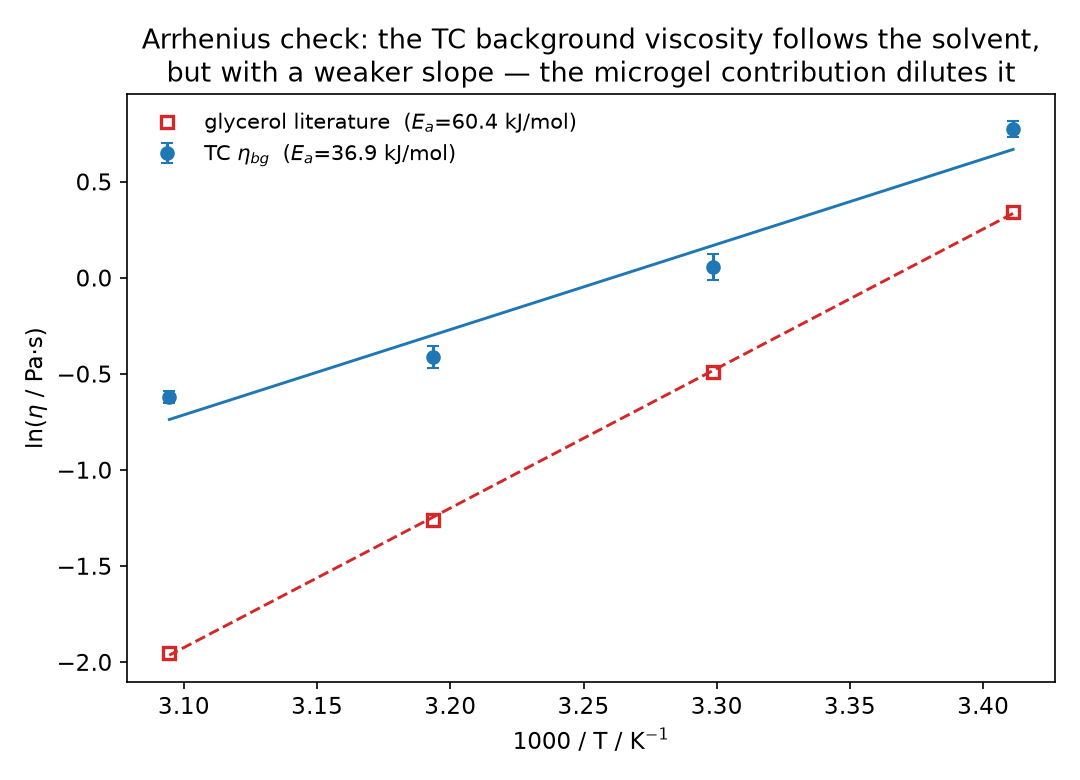
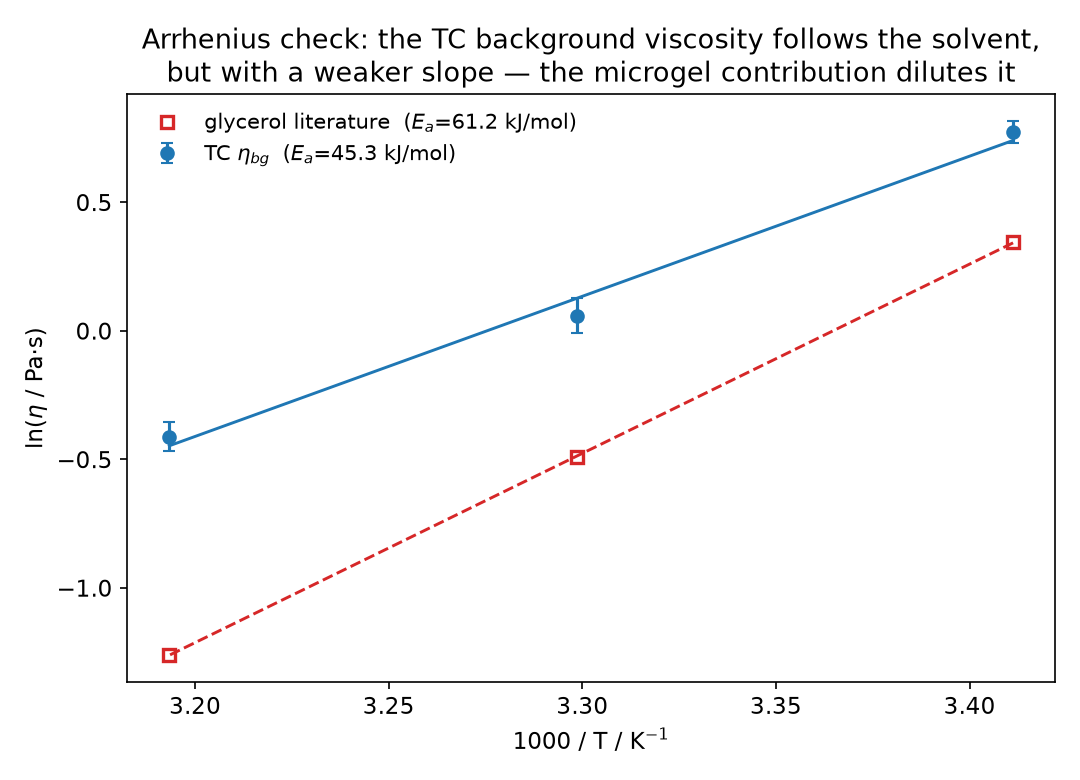
Docs: address review — drop 50C from glycerin walkthrough (issue #27)
- Remove the 50 C flow curve from the analysis: table, temperature
  series, TC parameter trends, and Arrhenius plot now use 20/30/40 C
- Corrected numbers: eta_bg Ea=45.3 kJ/mol (R2=0.990) vs glycerol
  61.2 kJ/mol (R2=1.000); eta_bg/eta_gly 1.54 -> 2.33 (20 -> 40 C)
- Updated mermaid diagram + SVG fallback; landing-page blurb fixed

diff --git a/docs/walkthrough-carbopol-glycerin.md b/docs/walkthrough-carbopol-glycerin.md
@@ -1,15 +1,15 @@
 # 🍯🌡 Walkthrough: the viscous background, measured at four temperatures — HB vs TC on Carbopol in glycerin
 
 *A single flow curve can tell you a viscous background exists. A temperature series lets you
-prove it: fit the TC model at 20, 30, 40 and 50 °C, extract the background viscosity
+prove it: fit the TC model at 20, 30 and 40 °C, extract the background viscosity
 η_bg(T), and check whether it follows the solvent's Arrhenius law. It does — with a twist
 that reveals the microgel's own contribution.*
 
 ## 🧪 The dataset
 
 `cp05_gly_newsample.json` (attached to [issue #27](https://github.com/rheopy/rheofit/issues/27),
-archived here as `walkthrough/cp05_gly_newsample.json`) holds **four equilibrium flow
-curves of Carbopol in glycerin at 20, 30, 40 and 50 °C** — 51 points each, 0.001 to
+archived here as `walkthrough/cp05_gly_newsample.json`) holds **three equilibrium flow
+curves of Carbopol in glycerin at 20, 30 and 40 °C** — 51 points each, 0.001 to
 100 s⁻¹, measured on a Peltier plate with 200 s thermal soaks between steps.
 
 ```python
@@ -17,13 +17,13 @@ import rheofit
 
 rheofit.print_steps("walkthrough/cp05_gly_newsample.json")
 dfs = {T: rheofit.load_step("walkthrough/cp05_gly_newsample.json", i)
-       for i, T in enumerate([50, 40, 30, 20])}
+       for i, T in enumerate([40, 30, 20])}
 ```
 
 ````{only} builder_html
 ```mermaid
 flowchart TD
-    A["cp05_gly_newsample.json<br/>Carbopol in glycerin<br/>flow curves at 20 / 30 / 40 / 50 °C"]
+    A["cp05_gly_newsample.json<br/>Carbopol in glycerin<br/>flow curves at 20 / 30 / 40 °C"]
     A --> B["Fit HB and TC<br/>at each temperature<br/>(thorough, seed 0)"]
     B --> C["Head-to-head:<br/>RedChi², parameters"]
     B --> D["Track TC parameters<br/>vs T"]
@@ -47,7 +47,6 @@ fits = {T: {"hb": rheofit.fit(df, "herschel_bulkley", effort="thorough", seed=0)
 
 | T (°C) | HB RedChi² | TC RedChi² | TC σ_y (Pa) | TC γ̇_c (s⁻¹) | TC η_bg (Pa·s) |
 |--------|-----------|-----------|-------------|---------------|----------------|
-| 50 | 1.45×10⁻⁴ | **5.26×10⁻⁵** | 5.368 ± 0.016 | 0.03464 ± 0.00034 | 0.538 ± 0.017 |
 | 40 | 4.20×10⁻⁴ | **1.22×10⁻⁴** | 5.358 ± 0.027 | 0.01564 ± 0.00025 | 0.663 ± 0.037 |
 | 30 | 5.85×10⁻⁴ | **2.05×10⁻⁴** | 6.314 ± 0.046 | 0.00956 ± 0.00021 | 1.060 ± 0.072 |
 | 20 | 6.12×10⁻⁴ | **1.42×10⁻⁴** | 7.494 ± 0.052 | 0.00564 ± 0.00011 | 2.169 ± 0.093 |
@@ -58,16 +57,16 @@ The HB fits are respectable — n ≈ 0.52 at all temperatures, the classic Carb
 shear-thinning signature, independent of T — but TC's explicit background term earns its
 keep here.
 
-![Flow curves at 20–50 °C with TC fits](walkthrough/fig14_temp_series_tc.png)
+![Flow curves at 20–40 °C with TC fits](walkthrough/fig14_temp_series_tc.png)
 
 ## 📈 Every TC parameter trends the physical way
 
 ![TC parameters vs temperature](walkthrough/fig16_tc_params_vs_T.png)
 
-- **σ_y grows on cooling** (5.37 → 7.49 Pa): the microgel network strengthens.
-- **γ̇_c falls on cooling** (0.035 → 0.0056 s⁻¹): the plastic √γ̇ term takes over at
+- **σ_y grows on cooling** (5.36 → 7.49 Pa): the microgel network strengthens.
+- **γ̇_c falls on cooling** (0.0156 → 0.0056 s⁻¹): the plastic √γ̇ term takes over at
   progressively lower shear rates as the background thickens.
-- **η_bg thickens on cooling** (0.54 → 2.17 Pa·s): the background viscosity itself is
+- **η_bg thickens on cooling** (0.66 → 2.17 Pa·s): the background viscosity itself is
   strongly temperature-dependent — which is exactly what you expect if it is the solvent.
 
 ## 🌡 The Arrhenius test
@@ -77,22 +76,22 @@ it should follow the solvent's temperature law. Glycerol is famously Arrhenius-l
 
 $$\ln \eta = \ln A + \frac{E_a}{R\,T}$$
 
-Public glycerol data (Segur & Oberstar 1951: 1.412, 0.612, 0.284, 0.142 Pa·s at
-20/30/40/50 °C) give a textbook straight line with **E_a = 60.4 kJ/mol** (R² = 0.9998).
-The TC background viscosities fall on a clean line too — with **E_a = 36.9 kJ/mol**
-(R² = 0.957).
+Public glycerol data (Segur & Oberstar 1951: 1.412, 0.612, 0.284 Pa·s at
+20/30/40 °C) give a textbook straight line with **E_a = 61.2 kJ/mol** (R² = 1.0000).
+The TC background viscosities fall on a clean line too — with **E_a = 45.3 kJ/mol**
+(R² = 0.9900).
 
 ![Arrhenius plot: TC background viscosity vs literature glycerol viscosity](walkthrough/fig15_arrhenius_bg.png)
 
 Two things to read off this plot:
 
 1. **η_bg tracks the solvent, always above it.** The ratio η_bg/η_glycerol runs
-   1.54 (20 °C) → 1.73 → 2.33 → 3.79 (50 °C): the background is glycerin *plus* the
+   1.54 (20 °C) → 1.73 → 2.33 (40 °C): the background is glycerin *plus* the
    Carbopol microgel's own high-shear contribution.
-2. **The slope is weaker (36.9 vs 60.4 kJ/mol) — and that makes sense.** The microgel
+2. **The slope is weaker (45.3 vs 61.2 kJ/mol) — and that makes sense.** The microgel
    contribution is only weakly temperature-dependent, so it dilutes the solvent's steep
-   Arrhenius slope. At 20 °C the thick solvent dominates the background; at 50 °C the
-   solvent has thinned tenfold and the microgel carries a larger share — hence the
+   Arrhenius slope. At 20 °C the thick solvent dominates the background; at 40 °C the
+   solvent has thinned fivefold and the microgel carries a larger share — hence the
    growing ratio.
 
 This is the payoff of the three-component decomposition: a single number per
@@ -103,9 +102,9 @@ have it check out.
 
 - **TC beats HB 3–4× on RedChi² at every temperature** — when the continuous phase is
   viscous, the explicit η_bg term is not a luxury, it is the model.
-- **η_bg(T) is Arrhenius with E_a = 36.9 kJ/mol**, weaker than pure glycerol's
-  60.4 kJ/mol — the microgel's own high-shear contribution dilutes the solvent slope.
-- **η_bg/η_glycerol = 1.5 → 3.8 from 20 to 50 °C**: the solvent dominates the
+- **η_bg(T) is Arrhenius with E_a = 45.3 kJ/mol**, weaker than pure glycerol's
+  61.2 kJ/mol — the microgel's own high-shear contribution dilutes the solvent slope.
+- **η_bg/η_glycerol = 1.5 → 2.3 from 20 to 40 °C**: the solvent dominates the
   background when cold; the microgel matters relatively more when hot.
 - **HB's n ≈ 0.52 is T-independent** — the microstructure's shear-thinning signature —
   while its K and σ_y absorb everything else. TC separates the physics instead of

diff --git a/docs/index.md b/docs/index.md
@@ -125,7 +125,7 @@ where the microstructure-informed `carreau_carreau` model resolves two relaxatio
 a temperature series. And don't miss the **[polymer solution case study](walkthrough-carreau)**,
 where a Carreau fit meets the Cox–Merz and Delaware–Rutgers rules on amplitude, flow, and
 frequency sweeps. For yield-stress fluids, the **[Carbopol in glycerin case study](walkthrough-carbopol-glycerin)**
-fits Herschel–Bulkley against the three-component model on flow curves at 20–50 °C, then
+fits Herschel–Bulkley against the three-component model on flow curves at 20–40 °C, then
 puts the TC background viscosity through an Arrhenius check against public glycerol data.
 Then browse the **[API reference](api)**.
 
